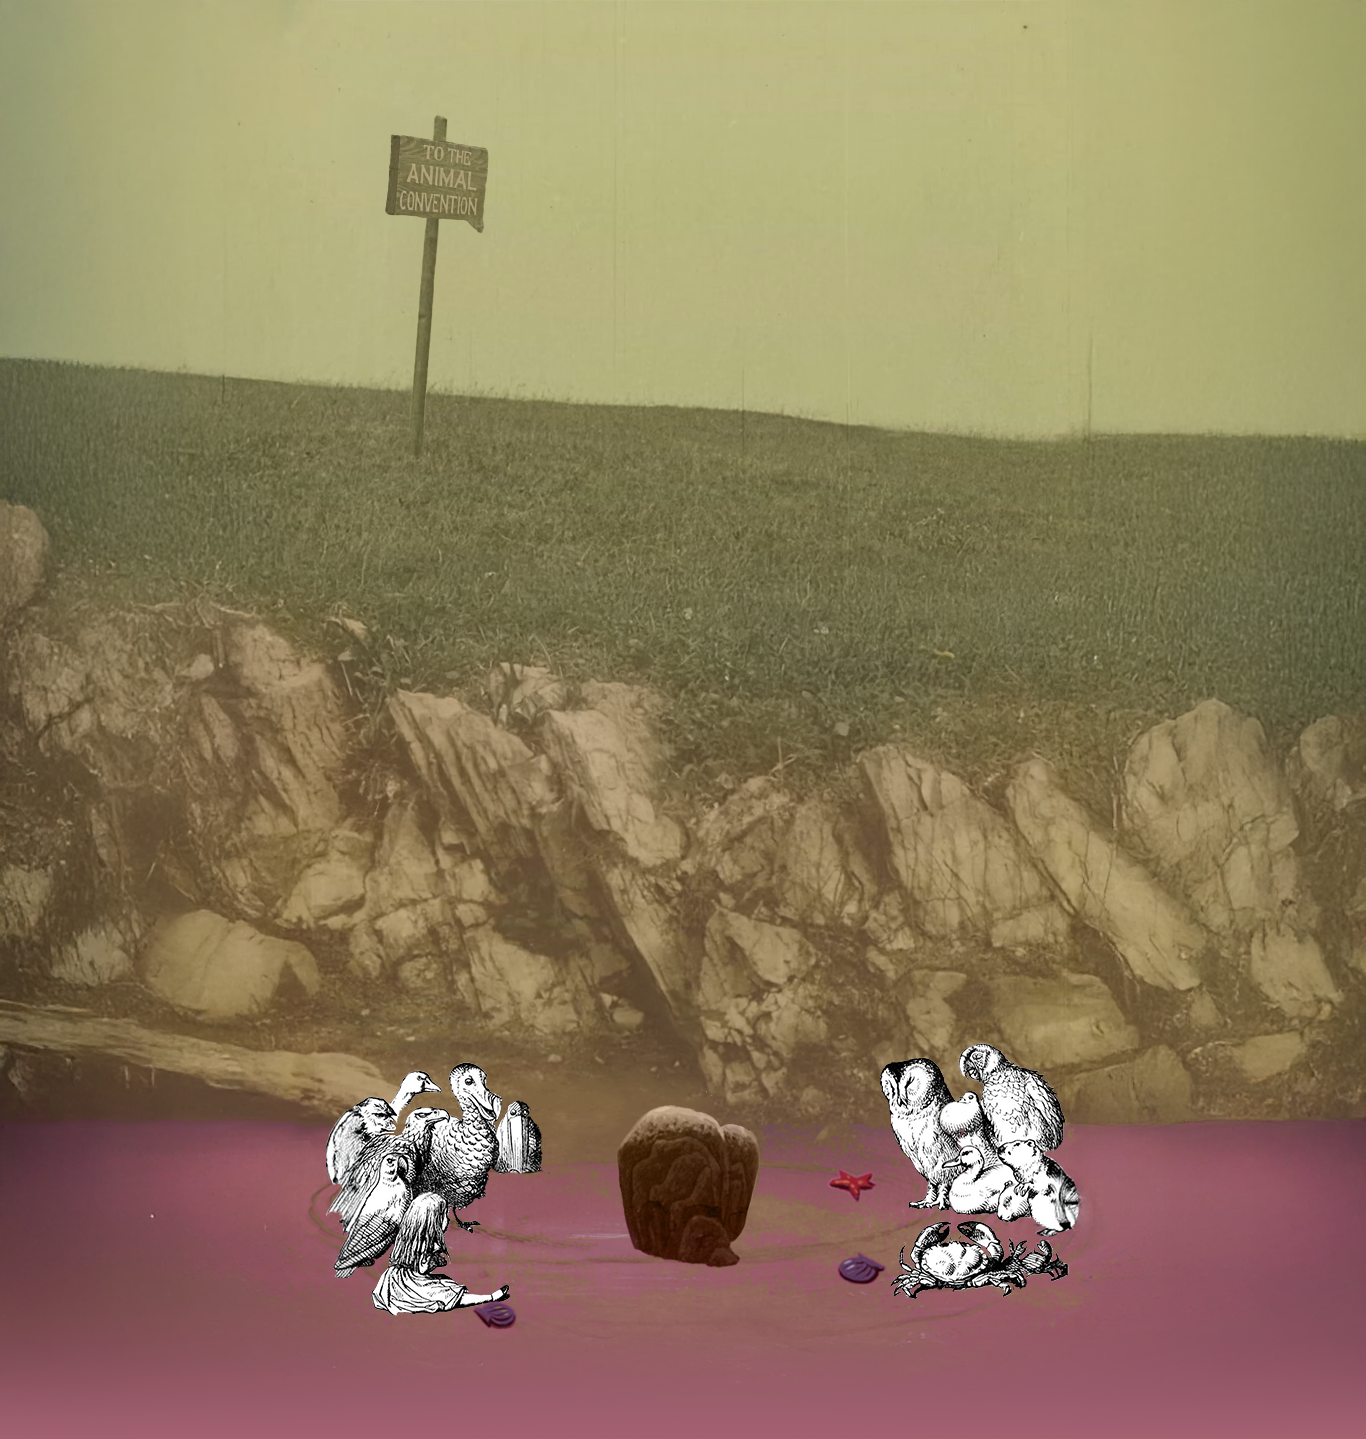
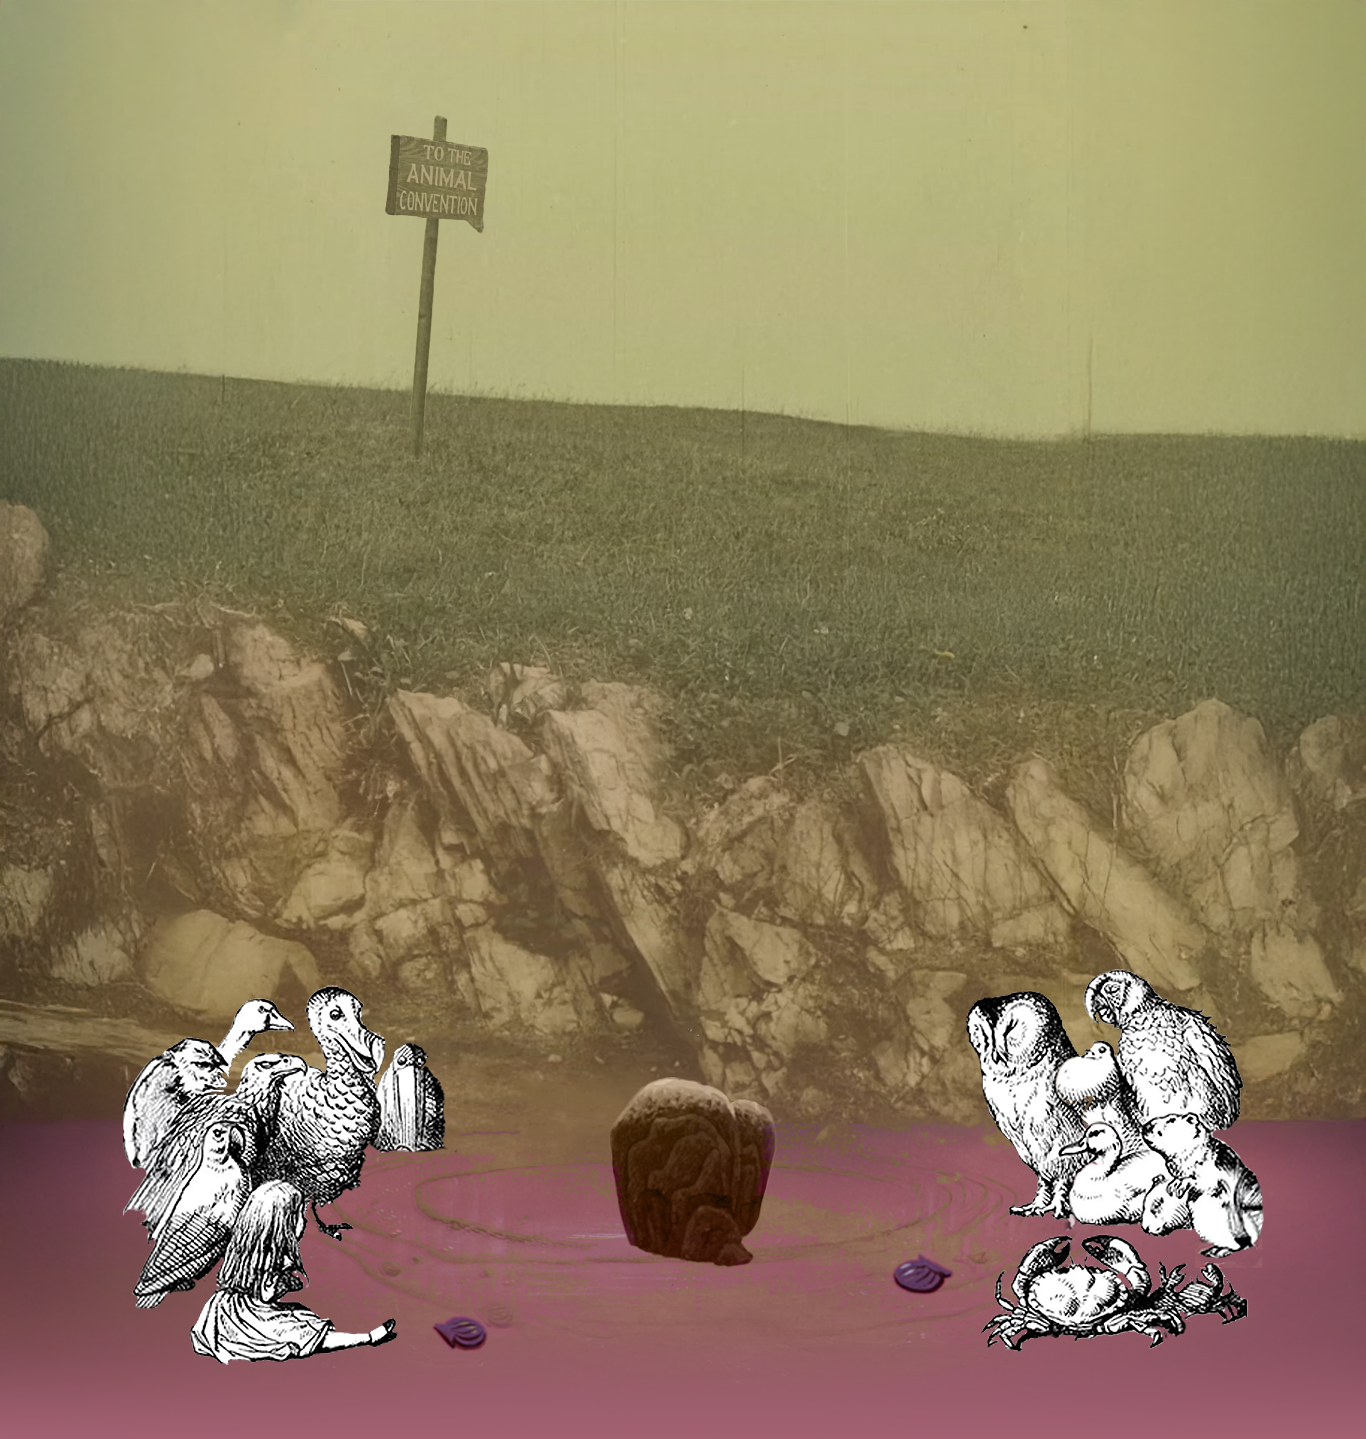
melhorias
melhorias

Changed region(s): [[0.6149, 0.6727, 0.9224, 0.9479], [0.0922, 0.6727, 0.3997, 0.9479], [0.4305, 0.7338, 0.5842, 0.8867]]

diff --git a/index.html b/index.html
@@ -67,6 +67,8 @@
         <path d="M199.7,48.44c-1,.83-1.6,2.05-1.95,3.2-.36,1.17-.51,2.33-.64,3.44-.23,2.25-.36,4.73.43,7.95.15.54.34,1.25.74,2.27.41,1.01,1.05,2.38,2.31,3.92.7.86,1.65,1.78,2.89,2.59,1.23.8,2.8,1.47,4.55,1.63,1.75.18,3.58-.18,5.14-.91,1.58-.72,2.93-1.77,4.02-2.94,2.2-2.42,3.14-5.14,3.65-7.04.25-.96.4-1.74.49-2.27.09-.54.13-.83.13-.83,0,0,.16-1,.29-2.61.14-1.61.23-3.86.11-6.37-.12-2.52-.47-5.29-1.04-7.94-.54-2.63-1.41-5.31-2.7-7.38-.7-1.13-1.54-2.1-2.44-2.84-.91-.75-1.87-1.24-2.77-1.56-1.85-.61-3.28-.46-4.19-.32-3.75.65-6.03,3.32-6.72,5.81-.71,2.53-.27,5.08,1.15,7.24-.23-2.57.47-4.54,1.47-6.1.52-.78,1.13-1.44,1.91-1.97.77-.53,1.72-.97,2.81-1.14.53-.08,1.35-.14,2.29.18.97.34,2.13,1.11,3.15,2.76.94,1.51,1.69,3.68,2.2,6.14.53,2.43.85,4.99.97,7.31.12,2.32.03,4.39-.09,5.87-.12,1.48-.26,2.36-.26,2.36,0,0-.04.26-.12.73-.08.47-.21,1.14-.42,1.94-.41,1.58-1.23,3.73-2.75,5.39-1.52,1.69-3.88,2.85-5.9,2.6-2.05-.18-3.8-1.59-4.8-2.81-.92-1.12-1.37-2.09-1.69-2.87-.32-.79-.47-1.36-.6-1.8-.67-2.61-.92-4.88-1.34-7.06-.2-1.11-.44-2.12-.58-3.18-.13-1.05-.17-2.16.31-3.37Z" fill="#fff"/>
         <path d="M207.08,28.32c1.62-2.01,2.68-4.05,3.33-6.34.62-2.3.86-4.91.23-8.11-.03-.21-.09-.43-.28-1.22l-3.68-.29c-.39.93-1.01,2.25-1.71,5.01-.19.76-.46,2.06-.6,3.17-.14,1.12-.2,2.04-.2,2.04,0,0-.06.78-.08,1.77-.02.99.03,2.2.12,3.06.05.61.13,1.19.21,1.74l.05.32.08.37c.06.25.13.48.21.71.17.45.41.84.69,1.16.57.65,1.36,1.02,2.12,1.1.76.08,1.51-.1,2.14-.44.32-.16.61-.36.88-.57.13-.09.28-.23.38-.32.09-.08.17-.17.25-.25.32-.33.57-.67.79-1.02.31-.57.59-1.04.75-1.45,1.4-3.3,1.09-6.21.25-8.53-.91-2.32-2.49-4.26-4.76-5.49,1.42,2.17,1.81,4.18,1.98,6.15.09,1.97-.05,4.05-1.03,6.29-.1.29-.31.6-.51.98-.07.11-.17.25-.3.38-.03.03-.06.07-.1.09-.03.02,0,0,0,0h0s0,0,.01,0h0s0,0,0,0h0s0,.02,0-.06c-.06-.48-.13-.98-.18-1.51-.07-.75-.12-1.8-.11-2.67,0-.87.05-1.54.05-1.54,0,0,.06-.81.19-1.78.13-.97.37-2.1.53-2.77.61-2.41,1.14-3.55,1.47-4.36l-3.68-.29c.15.66.21.84.24,1.02.55,2.67.69,4.84.75,6.94.03,2.11,0,4.18-.5,6.72Z" fill="#fff"/>
         <path d="M194.94.22c-.11,2.57.09,4.82.85,7.11.79,2.25,2.11,4.66,4.97,6.74.5.32,1.16.76,2.2,1.21,1.04.44,2.45.95,4.48,1.1.96.06,2.12.02,3.36-.27,1.24-.28,2.58-.84,3.77-1.74,1.2-.88,2.17-2.09,2.88-3.36.69-1.28,1.16-2.62,1.44-3.89.58-2.56.57-4.85.53-6.48-.05-1.64-.18-2.66-.18-2.66,0,0-.07-.85-.3-2.24-.23-1.38-.64-3.29-1.35-5.37-.72-2.12-1.8-4.45-3.57-6.4-.88-.97-1.95-1.83-3.15-2.42-1.2-.59-2.52-.85-3.69-.85-1.5.01-2.76.4-3.78.83-1.02.44-1.84.95-2.52,1.43-1.37.96-2.2,1.86-2.78,2.47-2.25,2.53-3.18,5.12-3.54,7.51-.31,2.42,0,4.78,1.02,7.15.21-2.58.9-4.51,1.73-6.38.88-1.85,1.9-3.71,3.66-5.65.45-.46,1.09-1.16,2.14-1.88,1.02-.71,2.47-1.52,4.07-1.54,1.24-.03,2.68.6,3.91,1.98,1.24,1.35,2.17,3.24,2.77,5.02.63,1.84,1,3.54,1.21,4.77.21,1.23.27,1.99.27,1.99,0,0,.11.9.15,2.36.03,1.46.02,3.49-.45,5.5-.44,2.02-1.42,3.96-2.86,4.99-1.4,1.07-3.21,1.32-4.53,1.24-1.4-.1-2.43-.46-3.16-.77-.75-.31-1.2-.62-1.56-.84-2.03-1.44-3.39-3.11-4.6-4.79-1.21-1.71-2.3-3.5-3.41-5.83Z" fill="#fff"/>
+     <path d="M216.39,923.64c4.37-1.52,4.41-3.47,2.11-5.86l-4.27,1.48"/>
+    <path d="M216.39,923.64c-.61-.44-1.9-.15-2.04-.53-.4-1.07-4.14-3.7,4.15-5.33"/>
       </g>
       <path d="M304.57,600.7c-.04,2.27-1.02,3.18-3.33,3.11-1.41-.04-3.45-2.17-3.38-3.54.06-1.25,2.19-3.2,3.42-3.13,2.1.12,3.33,1.46,3.29,3.55Z"/>
       <path d="M361.23,835.77c.82-1,1.51-2.25,2.56-2.99.71-.5,2.13-.68,2.85-.29,1.01.55,1.94,1.8,1.34,3.1-.4.86-1.3,1.77-2.18,2.06-1.97.66-2.6.28-4.56-1.87Z"/>
@@ -118,8 +120,7 @@
     <path d="M213.59,917.12c-.3-.22-.66-.43-1.07-.64-1.91-.98-3.86-2.28-5.2-3.92-2.41-2.96-3.87-6.44-5.01-10.18-.78-2.52-.7-4.95-1-7.42-.28-2.31-1.01-4.64-.82-6.91.23-2.8.97-5.63,1.91-8.29.93-2.63,2.22-5.18,3.68-7.57,1.74-2.85,4.37-4.88,7.28-6.5.47-.26,1.18-.11,2.18-.18-.69.94-1.06,1.64-1.61,2.15-3,2.76-4.49,6.33-5.78,10.08-1.61,4.68-2.58,9.45-2.06,14.37.32,2.97,1.1,5.91,1.93,8.8.72,2.52,1.66,5,2.76,7.37,1.17,2.53,3.62,5.44,6.74,4.81,2.62-.53,5.32-2.62,5.88-5.24,1.03-4.84,1.72-9.75.96-14.68-.49-3.2-1.34-6.52-4.3-8.39-1.81-1.13-3.81-3-6.29-.94-.38.32-1.17.15-1.84.21.41-1.55,2.48-3.23,4.08-3.32,1.56-.09,3.18-.3,4.68,0,2.55.5,4.73,1.94,6.12,4.1,1.35,2.11,2.31,4.47,3.39,6.75.18.37.12.86.13,1.3.01,2.51.05,5.01,0,7.52-.04,2.54-1.21,4.74-2.02,7.07-.85,2.42-2.02,4.51-4.05,5.99-1.59,1.16-3.4,2.03-5.11,3.02-.21.12-.44.21-.66.32"/>
     <path d="M219.61,863.78c2.83-1.64,7.76.42,8.65,3.46.35,1.18.95,1.86.04,3.2-.73,1.08-1.51,1.15-2.27.89-.65-.23-1.38-1.01-1.56-1.69-.48-1.76-.97-3.48-2.47-4.64-.62-.48-1.43-.74-2.39-1.22Z"/>
     <path d="M221.2,863.25c-.96.23-6.49,1.56-8.26,2.67s1.09.75,1.09.75c0,0-.39,1.25.65.06.65-.74,4.11-3.26,6.12-2.41"/>
-    <path d="M216.39,923.64c4.37-1.52,4.41-3.47,2.11-5.86l-4.27,1.48"/>
-    <path d="M216.39,923.64c-.61-.44-1.9-.15-2.04-.53-.4-1.07-4.14-3.7,4.15-5.33"/>
+    
     <circle class="hit-area" cx="218" cy="886" r="28" fill="transparent" pointer-events="all"/>
   </g>
   <g id="9">

diff --git a/css/cap11.css b/css/cap11.css
@@ -5,7 +5,7 @@ body {
 
     margin: 0;
     font-family: 'Libre Caslon Text', serif;
-    color: #eaa53eb5;
+    color: #ffab2dcf;
     overflow-x: hidden;
 }
 
@@ -136,7 +136,7 @@ section {
     bottom: 0vh; /* valor que faz aparecer em cima do container*/
     height: 2400vh; 
     width: 100vw;
-    z-index: 100;
+    z-index: 10000;
 
 }
 
@@ -160,9 +160,9 @@ section {
 
 #detalhecena1 {
     position: absolute;
-    bottom: 0vh;
+    bottom: -10vh;
     right: 0;
-    width:30vw;
+    width:35vw;
     height: auto;
 }
 
@@ -212,9 +212,9 @@ section {
 
 #detalhecena2 {
     position: absolute;
-    bottom: 0vh;
+    bottom: -10vh;
     right: 50%;
-    width: 90vw;
+    width: 110vw;
     height: auto;
     transform: translateX(50%);
 }

diff --git a/js/script9.js b/js/script9.js
@@ -13,12 +13,12 @@ window.addEventListener('scroll', function() {
     // Animação linear: 0 até 40% do scroll
     if (scrollProgress < 0.4) {
         const t = scrollProgress / 0.4;
-        const left = -50 + t * (15 + 50); // de -50 até 5
-        const height = 40 + t * (60 - 40); // de 40vh até 60vh
+        const left = -20 + t * (15 + 50); // de -50 até 5
+        const height = 40 + t * (80 - 40); // de 40vh até 80vh (aumenta mais)
         personagem.style.left = `${left}vw`;
         personagem.style.height = `${height}vh`;
     } else {
         personagem.style.left = '15vw';
-        personagem.style.height = '60vh';
+        personagem.style.height = '80vh'; // valor final aumentado
     }
 });

diff --git a/js/scriptmenu.js b/js/scriptmenu.js
@@ -70,9 +70,9 @@ for (let i = 1; i <= 12; i++) {
             // Redireciona após a animação (1200ms)
             setTimeout(() => {
                 if (i === 1) {
-                    window.location.href = 'index.html';
+                    window.location.href = 'index.html#chapter1';
                 } else {
-                    window.location.href = `cap${i}.html`;
+                    window.location.href = `cap${i}.html#chapter${i}`;
                 }
             }, 1200);
         });

diff --git a/cap8.html b/cap8.html
@@ -190,8 +190,8 @@
     <div id="chapter-transition-block"></div>
 
     <section id="chapter8">
-        <h1>CHAPTER VII</h1>
-        <h2>The Rabbit Sends in a Little Bill</h2>
+        <h1>CHAPTER 8</h1>
+        <h2>The Queen’s Croquet-Ground</h2>
         <p>"Curiouser and curiouser!" cried Alice (she was so much surprised, that for the moment she quite forgot how
             to speak good English); "now I'm opening out like the largest telescope that ever was!"</p>
     </section>

diff --git a/cap9.html b/cap9.html
@@ -190,8 +190,8 @@
     <div id="chapter-transition-block"></div>
 
     <section id="chapter9">
-        <h1>CHAPTER IX</h1>
-        <h2>The Rabbit Sends in a Little Bill</h2>
+        <h1>CHAPTER 9</h1>
+        <h2>The Mock Turtle’s Story</h2>
         <p>"Curiouser and curiouser!" cried Alice (she was so much surprised, that for the moment she quite forgot how
             to speak good English); "now I'm opening out like the largest telescope that ever was!"</p>
     </section>

diff --git a/cap5.html b/cap5.html
@@ -190,8 +190,8 @@
     <div id="chapter-transition-block"></div>
 
     <section id="chapter5">
-        <h1>CHAPTER V</h1>
-        <h2>The Rabbit Sends in a Little Bill</h2>
+        <h1>CHAPTER 5</h1>
+        <h2>Advice from a Caterpillar</h2>
         <p>"Curiouser and curiouser!" cried Alice (she was so much surprised, that for the moment she quite forgot how
             to speak good English); "now I'm opening out like the largest telescope that ever was!"</p>
     </section>

diff --git a/cap10.html b/cap10.html
@@ -190,8 +190,8 @@
     <div id="chapter-transition-block"></div>
 
     <section id="chapter10">
-        <h1>CHAPTER IX</h1>
-        <h2>The Rabbit Sends in a Little Bill</h2>
+        <h1>CHAPTER 10</h1>
+        <h2>The Lobster Quadrille</h2>
         <p>"Curiouser and curiouser!" cried Alice (she was so much surprised, that for the moment she quite forgot how
             to speak good English); "now I'm opening out like the largest telescope that ever was!"</p>
     </section>

diff --git a/cap11.html b/cap11.html
@@ -190,8 +190,8 @@
     <div id="chapter-transition-block"></div>
 
     <section id="chapter11">
-        <h1>CHAPTER XI</h1>
-        <h2>The Rabbit Sends in a Little Bill</h2>
+        <h1>CHAPTER 11</h1>
+        <h2>Who Stole the Tarts?</h2>
         <p>"Curiouser and curiouser!" cried Alice (she was so much surprised, that for the moment she quite forgot how
             to speak good English); "now I'm opening out like the largest telescope that ever was!"</p>
     </section>

diff --git a/cap12.html b/cap12.html
@@ -190,8 +190,8 @@
     <div id="chapter-transition-block"></div>
 
     <section id="chapter12">
-        <h1>CHAPTER XII</h1>
-        <h2>The Rabbit Sends in a Little Bill</h2>
+        <h1>CHAPTER 12</h1>
+        <h2>Alice’s Evidence</h2>
         <p>"Curiouser and curiouser!" cried Alice (she was so much surprised, that for the moment she quite forgot how
             to speak good English); "now I'm opening out like the largest telescope that ever was!"</p>
     </section>

diff --git a/cap7.html b/cap7.html
@@ -190,8 +190,8 @@
     <div id="chapter-transition-block"></div>
 
     <section id="chapter7">
-        <h1>CHAPTER VII</h1>
-        <h2>The Rabbit Sends in a Little Bill</h2>
+        <h1>CHAPTER 7</h1>
+        <h2>A Mad Tea-Party</h2>
         <p>"Curiouser and curiouser!" cried Alice (she was so much surprised, that for the moment she quite forgot how
             to speak good English); "now I'm opening out like the largest telescope that ever was!"</p>
     </section>

diff --git a/cap6.html b/cap6.html
@@ -190,8 +190,8 @@
     <div id="chapter-transition-block"></div>
 
     <section id="chapter6">
-        <h1>CHAPTER VI</h1>
-        <h2>The Rabbit Sends in a Little Bill</h2>
+        <h1>CHAPTER 6</h1>
+        <h2>Pig and Pepper</h2>
         <p>"Curiouser and curiouser!" cried Alice (she was so much surprised, that for the moment she quite forgot how
             to speak good English); "now I'm opening out like the largest telescope that ever was!"</p>
     </section>
